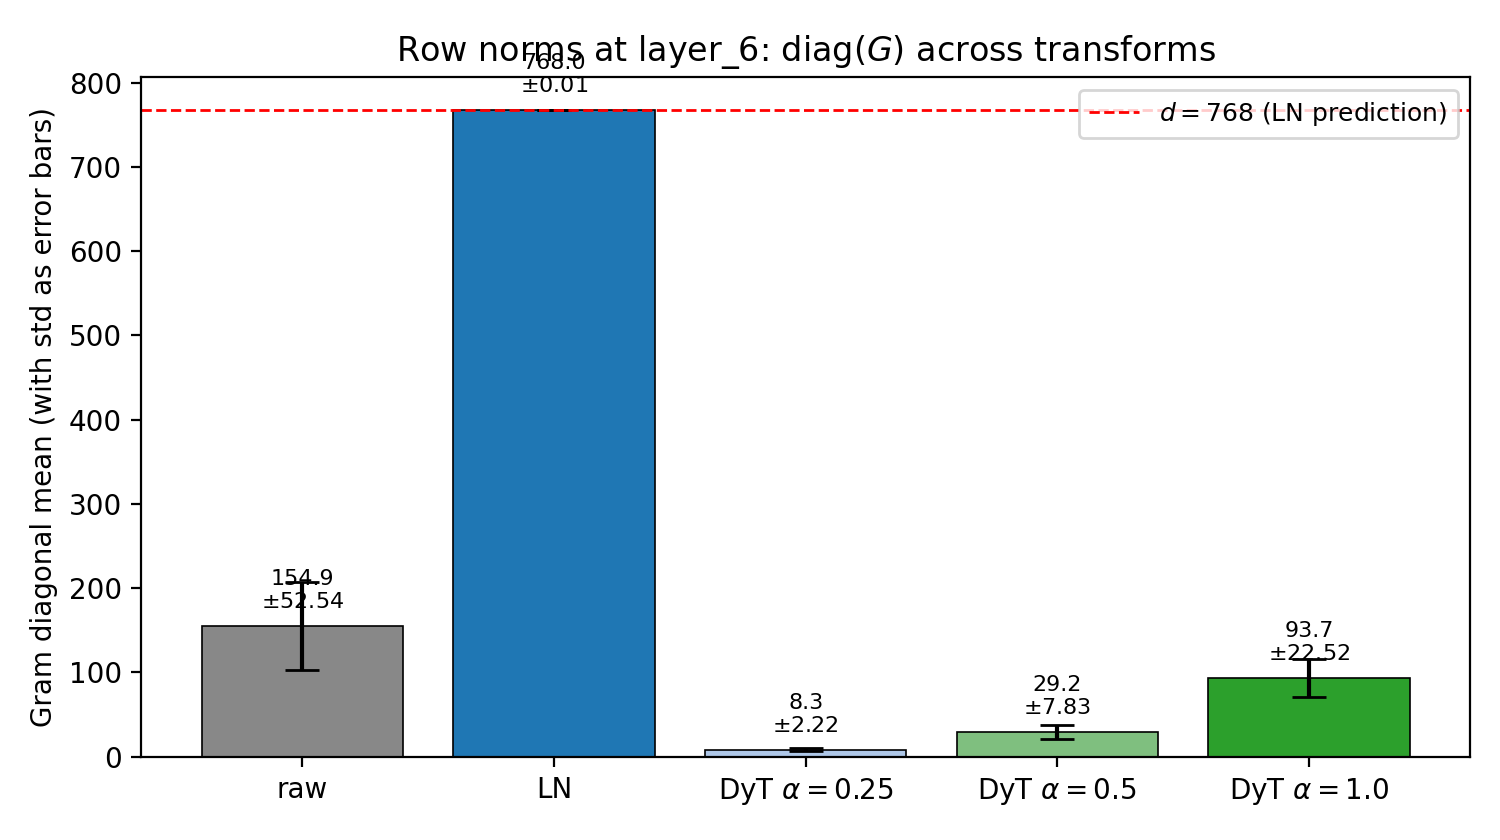
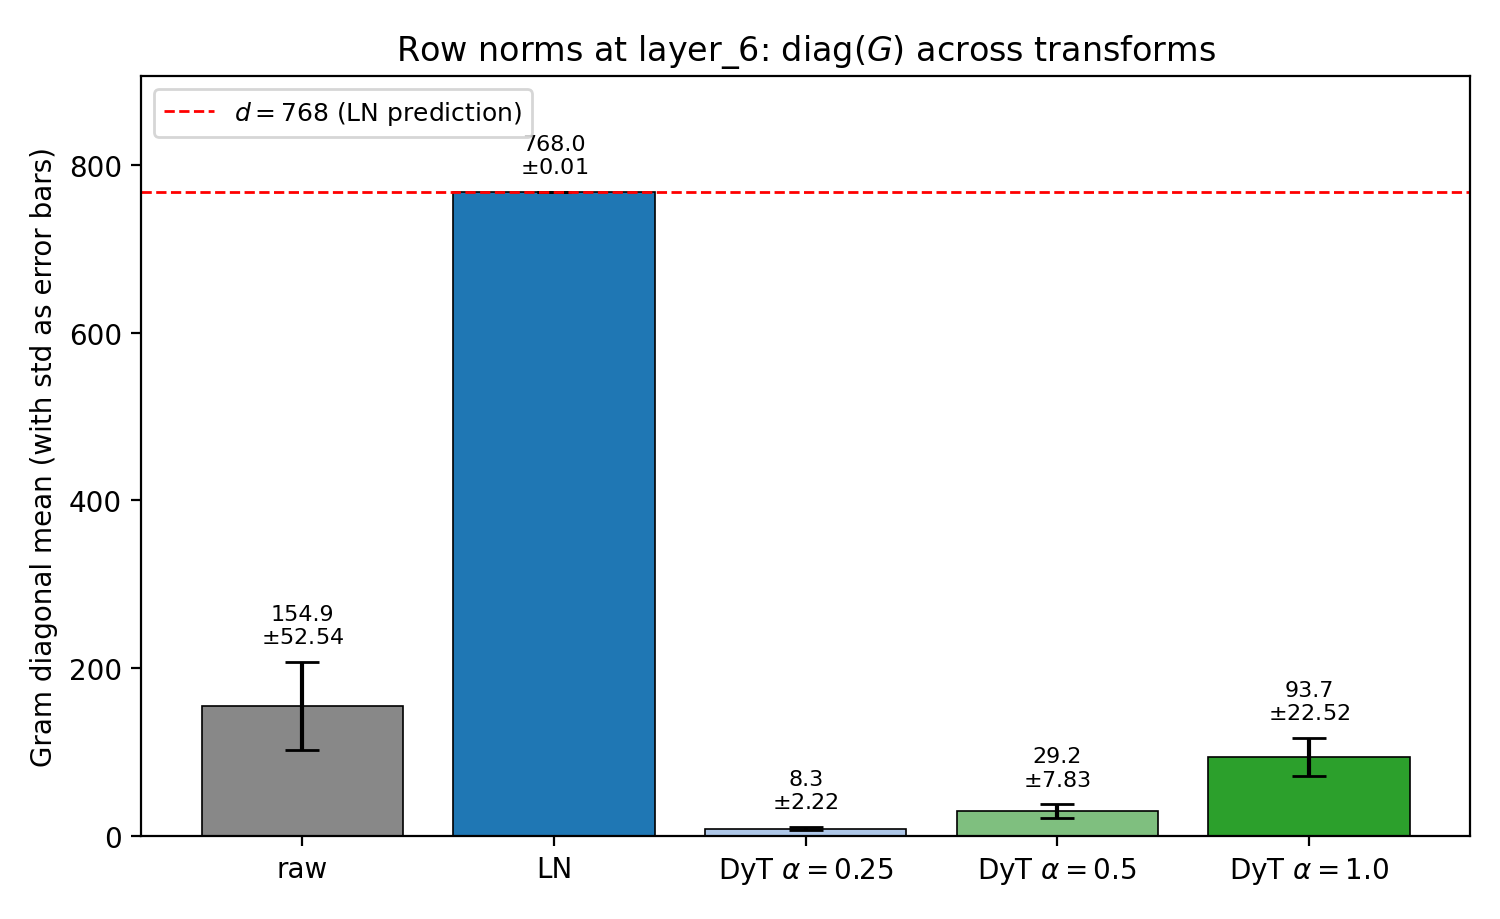
fix: fix gram-diag bar label overlap

diff --git a/diagnostics.py b/diagnostics.py
@@ -524,7 +524,7 @@ def plot_gram_diag_bars(
         return
 
     n = len(labels)
-    fig, ax = plt.subplots(figsize=(max(7.5, 1.3 * n), 4.2))
+    fig, ax = plt.subplots(figsize=(max(7.5, 1.3 * n), 4.6))
     x = np.arange(n)
     base_colors = ["#888888", "#1f77b4", "#aec7e8", "#7fbf7f", "#2ca02c"]
     colors = [base_colors[i % len(base_colors)] for i in range(n)]
@@ -536,9 +536,13 @@ def plot_gram_diag_bars(
     ax.set_xticklabels(labels, rotation=20 if n > 5 else 0, ha="right" if n > 5 else "center")
     ax.set_ylabel("Gram diagonal mean (with std as error bars)")
     ax.set_title(f"Row norms at {layer}: $\\mathrm{{diag}}(G)$ across transforms")
-    ax.legend(loc="upper right", fontsize=9)
+
+    ymax = max(d, max(m + s for m, s in zip(means, stds))) * 1.18
+    ax.set_ylim(0, ymax)
+    ax.legend(loc="upper left", fontsize=9)
+    offset = ymax * 0.025
     for i, (m, s) in enumerate(zip(means, stds)):
-        ax.text(i, m + max(stds) * 0.4, f"{m:.1f}\n$\\pm${s:.2f}",
+        ax.text(i, m + s + offset, f"{m:.1f}\n$\\pm${s:.2f}",
                 ha="center", fontsize=8)
     fig.tight_layout()
     fig.savefig(path, dpi=200)
